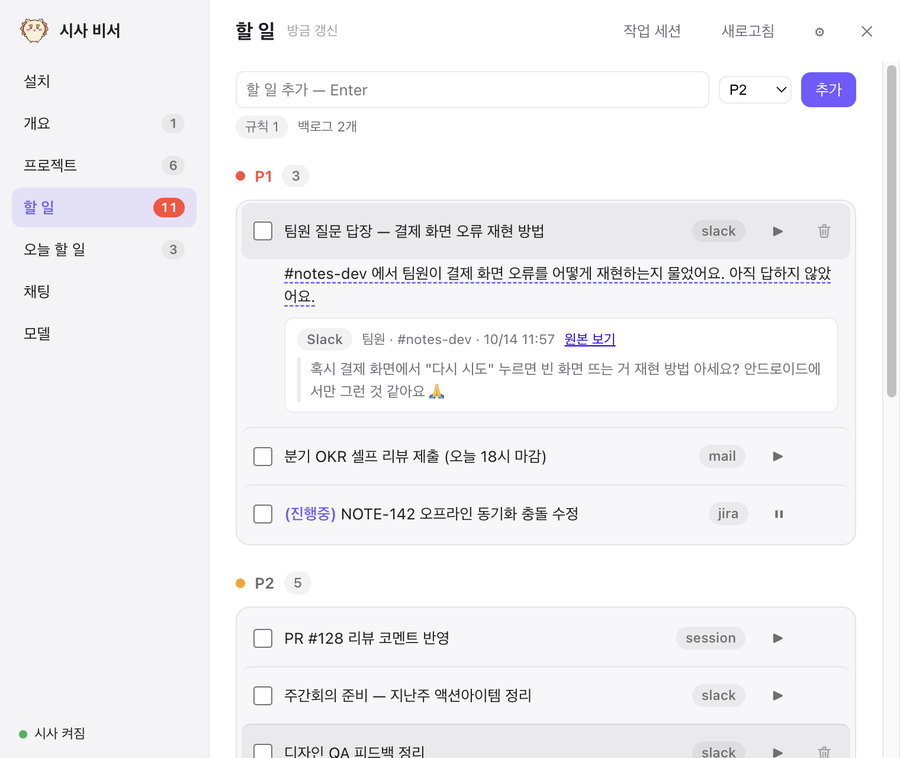
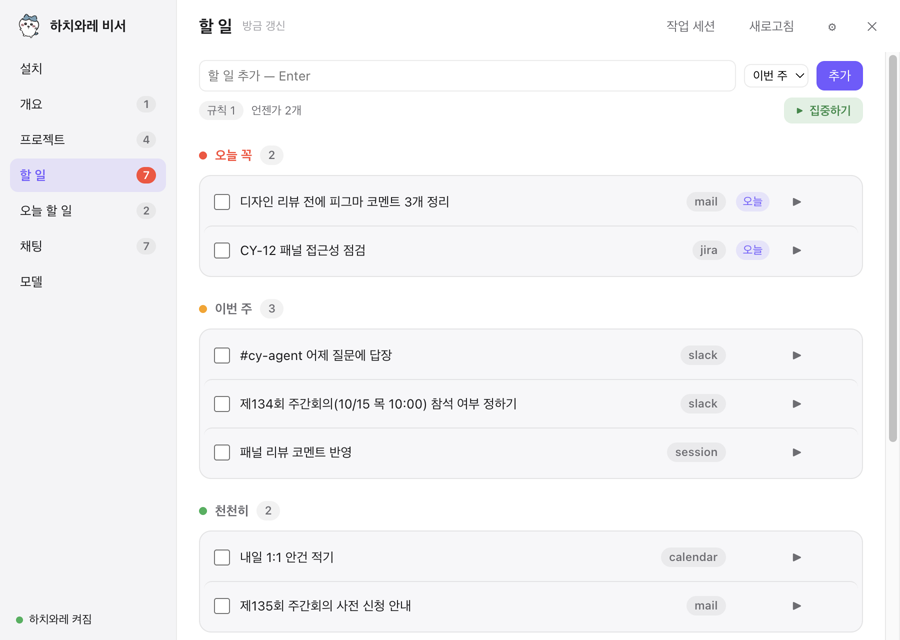
docs(readme): 캐릭터 고르기·응원해 줘·춤춰 줘 스크린샷, 할 일 화면 새 우선순위 이름

diff --git a/README.md b/README.md
@@ -1,6 +1,6 @@
 # 시사 비서 (shisa-agent)
 
-맥 화면 구석에 사는 작은 비서입니다. 캐릭터 "시사"가 할 일이나 회의, 브리핑을 말풍선으로 알려 주고, 캐릭터를 누르면 할 일과 대화를 모아 둔 패널이 열립니다.
+맥 화면 구석에 사는 작은 비서입니다. 캐릭터 "시사"가 할 일이나 회의, 브리핑을 말풍선으로 알려 주고, 캐릭터를 누르면 할 일과 대화를 모아 둔 패널이 열립니다. 캐릭터는 시사·하치와레·랏코·모몽가 중에서 고를 수 있습니다.
 데이터는 전부 내 맥(`~/.cy-agent/`)에만 저장됩니다. 따로 서버로 올라가는 건 없습니다.
 
 지금은 macOS에서만 돌아가고, 윈도우 버전은 개발할 예정입니다.
@@ -15,13 +15,25 @@
 ## 하는 일
 
 - 캐릭터를 한 번 누르면 패널이 열리고, 두 번 누르면 그 자리에서 바로 말을 걸 수 있습니다. AI를 연결하지 않았다면 두 번 눌렀을 때 「지금 할 일 뭐 있어요?」 같은 질문 칩이 뜨고, 고르면 바로 답해 줍니다. 오른쪽 클릭으로 메뉴를 열 수 있고, 끌어서 아무 데나 옮겨 둘 수도 있습니다.
-- 할 일 정리: 연결해 둔 Slack·캘린더·메일·이슈와 내 Claude Code·Codex 작업 기록을 읽어서 챙길 일을 우선순위별로 모아 줍니다. 줄을 두 번 누르면 제목과 설명을 그 자리에서 고칠 수 있고, ▶를 누르면 「(진행중)」이 붙고, 지운 할 일은 휴지통에 30일 동안 남습니다. "앞으로 세미나는 백로그로"처럼 말해 두면 규칙으로 기억합니다.
+- 할 일 정리: 연결해 둔 Slack·캘린더·메일·이슈와 내 Claude Code·Codex 작업 기록을 읽어서 챙길 일을 우선순위별로 모아 줍니다. 줄을 두 번 누르면 제목과 설명을 그 자리에서 고칠 수 있고, ▶를 누르면 「(진행중)」이 붙고, 지운 할 일은 휴지통에 30일 동안 남습니다. 우선순위는 「오늘 꼭·이번 주·천천히·언젠가」로 나뉩니다. "앞으로 세미나는 언젠가로"처럼 말해 두면 규칙으로 기억합니다.
+- 캐릭터 고르기: 설정 창 「캐릭터」에서 시사·하치와레·랏코·모몽가 중 하나를 고릅니다. 고르면 바로 그림과 영상, 말투, 앱 이름(「하치와레 비서」처럼)이 같이 바뀝니다. 하치와레는 밝은 반말, 랏코는 엄격한 말투, 모몽가는 살짝 시비 거는 말투로 말합니다. 대사는 `assets/characters/lines.json` 한 파일에 모여 있어서 고치기 쉽습니다.
+- 응원해 줘·춤춰 줘: 캐릭터를 두 번 누르거나 입력창의 ＋를 누르면 「응원해 줘」, 「춤춰 줘」 같은 정해진 답 칩이 뜹니다. 고르면 캐릭터마다 다른 영상과 대사로 답합니다. AI를 연결해 둬도 ＋로 언제든 쓸 수 있습니다.
 - 브리핑: 평일 9~19시(한국 시간)에는 한 시간마다 지금 챙길 일을 짧게 정리해 드립니다. 메뉴의 「지금 브리핑」으로 아무 때나 부를 수도 있습니다.
 - 오늘 할 일: 할 일 중 오늘 할 것을 골라 할 일 탭과 같은 우선순위 묶음으로 봅니다. 아침마다 적어 달라고 알려 주고(설정에서 N시간마다·정한 시각·끄기), 절반·다 끝내면 응원해 줍니다. 이 맥에만 저장됩니다.
 - 집중하기: 시사와 같이 공부할 수도 있고, 일할 때 한 가지에 집중하는 시간을 잴 수도 있습니다. 할 일 탭이나 오늘 할 일 탭에서 「▶ 집중하기」를 누르면 시사도 책을 펴고 공부를 시작하고, 머리 위 말풍선에 집중한 시간이 흘러갑니다. 잠깐 쉴 때는 말풍선의 일시정지를 누르면 되고, 쉰 시간은 빼고 셉니다. 목록 맨 아래 「오늘 집중」을 누르면 주·월 기록이 나옵니다. GitHub 잔디처럼 오래 집중한 날일수록 칸이 진하고, 날짜를 누르면 그날 모두 얼마나 집중했는지와 쉬지 않고 가장 길게 이어 간 시간이 보입니다. AI 없이도 됩니다.
 - 일정 알림: 일정 10분 전(설정 창에서 5·15·30분 전이나 여러 번으로 바꾸거나 끌 수 있습니다)이 되면 캐릭터가 춤을 추면서 알려 줍니다. 캘린더 연결이 필요합니다.
 - 채팅: 패널에서는 길게 대화할 수 있고 파일도 붙일 수 있습니다. 지난 대화는 목록에 남습니다. AI가 없을 때는 「다음엔 뭐 할까요?」, 「좀 쉬어도 될까요?」 같은 말을 골라 시사와 짧게 주고받을 수 있습니다.
 - 코드 작업: Claude Code가 있으면 레포 코드를 고쳐 달라고 시킬 수도 있습니다. 별도 워크트리에서 고치고 테스트까지 돌린 다음, 통과하면 PR을 올리고 "머지할까요?" 하고 물어봅니다.
+
+| 시사 | 하치와레 | 랏코 | 모몽가 |
+|---|---|---|---|
+| <img src="docs/images/characters/character-shisa.png" alt="시사: 안녕하세요! 곧 브리핑할게요"> | <img src="docs/images/characters/character-hachi.png" alt="하치와레: 안녕! 오늘도 열심히 해 보자. 파이팅!"> | <img src="docs/images/characters/character-rakko.png" alt="랏코: 그래, 왔군. 오늘도 열심히 달려볼까."> | <img src="docs/images/characters/character-momonga.png" alt="모몽가: 쳇! 또 보이는군."> |
+
+| 하치와레: 응원해 줘 | 랏코: 응원해 줘 | 모몽가: 춤춰 줘 | 랏코: 춤춰 줘 |
+|---|---|---|---|
+| <img src="docs/images/characters/cheer-hachi.png" alt="하치와레 응원 영상과 응원 대사"> | <img src="docs/images/characters/cheer-rakko.png" alt="딸기 파르페를 먹는 랏코와 응원 대사"> | <img src="docs/images/characters/dance-momonga.png" alt="춤추는 모몽가와 시러 시러 대사"> | <img src="docs/images/characters/dance-rakko.png" alt="멜론을 베는 랏코: 춤은 못 추지만, 멋있는 걸 보여 주지. (쓩)"> |
+
+<img src="docs/images/characters/settings-character.png" width="560" alt="설정 창 캐릭터 고르기: 시사·하치와레·랏코·모몽가">
 
 | 패널: 할 일 | 패널: 개요·브리핑 | 패널: 채팅 |
 |---|---|---|
